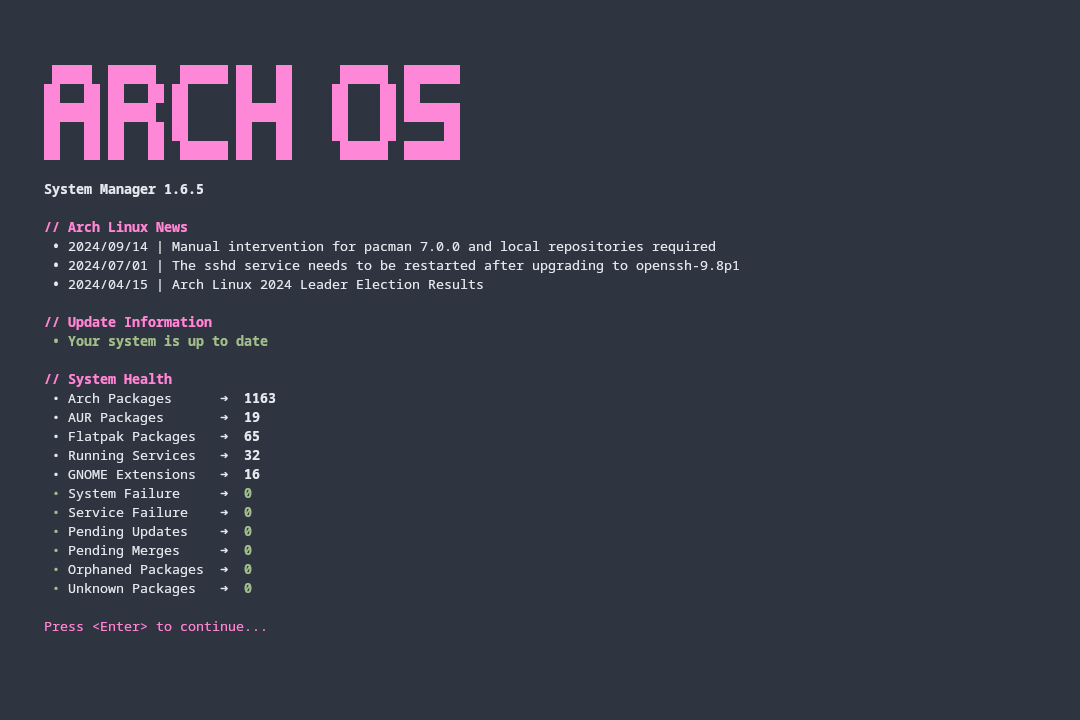
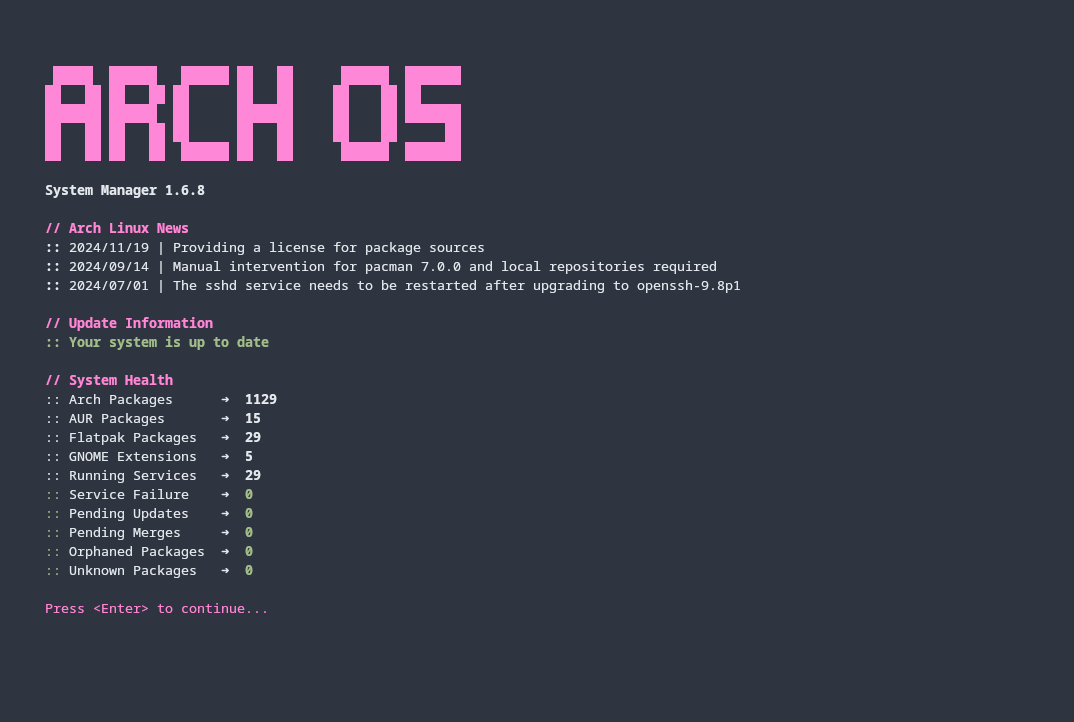
1.6.8
* Add list updates
* Add rich notifcation
* Add dev env
* Docs

diff --git a/docs/README.md b/docs/README.md
@@ -38,7 +38,7 @@ arch-os
 git clone https://github.com/murkl/arch-os-manager.git && cd arch-os-manager
 ```
 
-2. Install Dependencies:
+1. Install [Dependencies](#install-dependencies-optional):
 
 ```
 ./arch-os --install
@@ -55,12 +55,11 @@ git clone https://github.com/murkl/arch-os-manager.git && cd arch-os-manager
 ## Features
 
 - Check & list updates in _checkupdates_ format
-- System health info
-- Startup notify on available updates
-- Notify & show latest Arch Linux news
+- Rich startup notification on available updates
+- System health info, packages & logs
+- Show unread/latest Arch Linux news
 - Notice on orphaned packages & pacdiff files
 - Search & manage packages
-- Show system info, packages & logs
 - Upgrade system packages
 - Remove orphaned packages
 - Clear Package cache
@@ -68,6 +67,7 @@ git clone https://github.com/murkl/arch-os-manager.git && cd arch-os-manager
 - Built-in system log blacklist
 - Built-in settings editor
 - Standalone mode with built-in kitty
+- System-oriented design
 
 Install these **optional** dependencies to equip Arch OS Manager with additional features:
 
@@ -104,6 +104,7 @@ settings         ➜  Edit settings in built-in ediitor
 ```
 check            ➜  Print package updates (checkupdates)
 notify           ➜  Notify on new package updates (autostart)
+list             ➜  List system updates (without database sync)
 search           ➜  Search & manage packages (pacman, aur)
 info             ➜  Show system info (logs, services, health)
 upgrade          ➜  System upgrade (news, health, pacman, aur, flatpak)
@@ -189,6 +190,7 @@ dconf write /org/gnome/shell/extensions/arch-update/package-manager "'arch-os --
 
 <sub><b>This screenshots may outdated.</b></sub>
 
+<p><img src="./screenshots/notification.png"></p>
 <p><img src="./screenshots/upgrade.png"></p>
 <p><img src="./screenshots/info.png"></p>
 <p><img src="./screenshots/search.png"></p>
@@ -196,6 +198,12 @@ dconf write /org/gnome/shell/extensions/arch-update/package-manager "'arch-os --
 <p><img src="./screenshots/uptodate.png"></p>
 
 </div>
+
+## Development
+
+```
+GUM=/my/custom/gum KITTY=/my/custom/kitty ./arch-os
+```
 
 ## Credits
 
